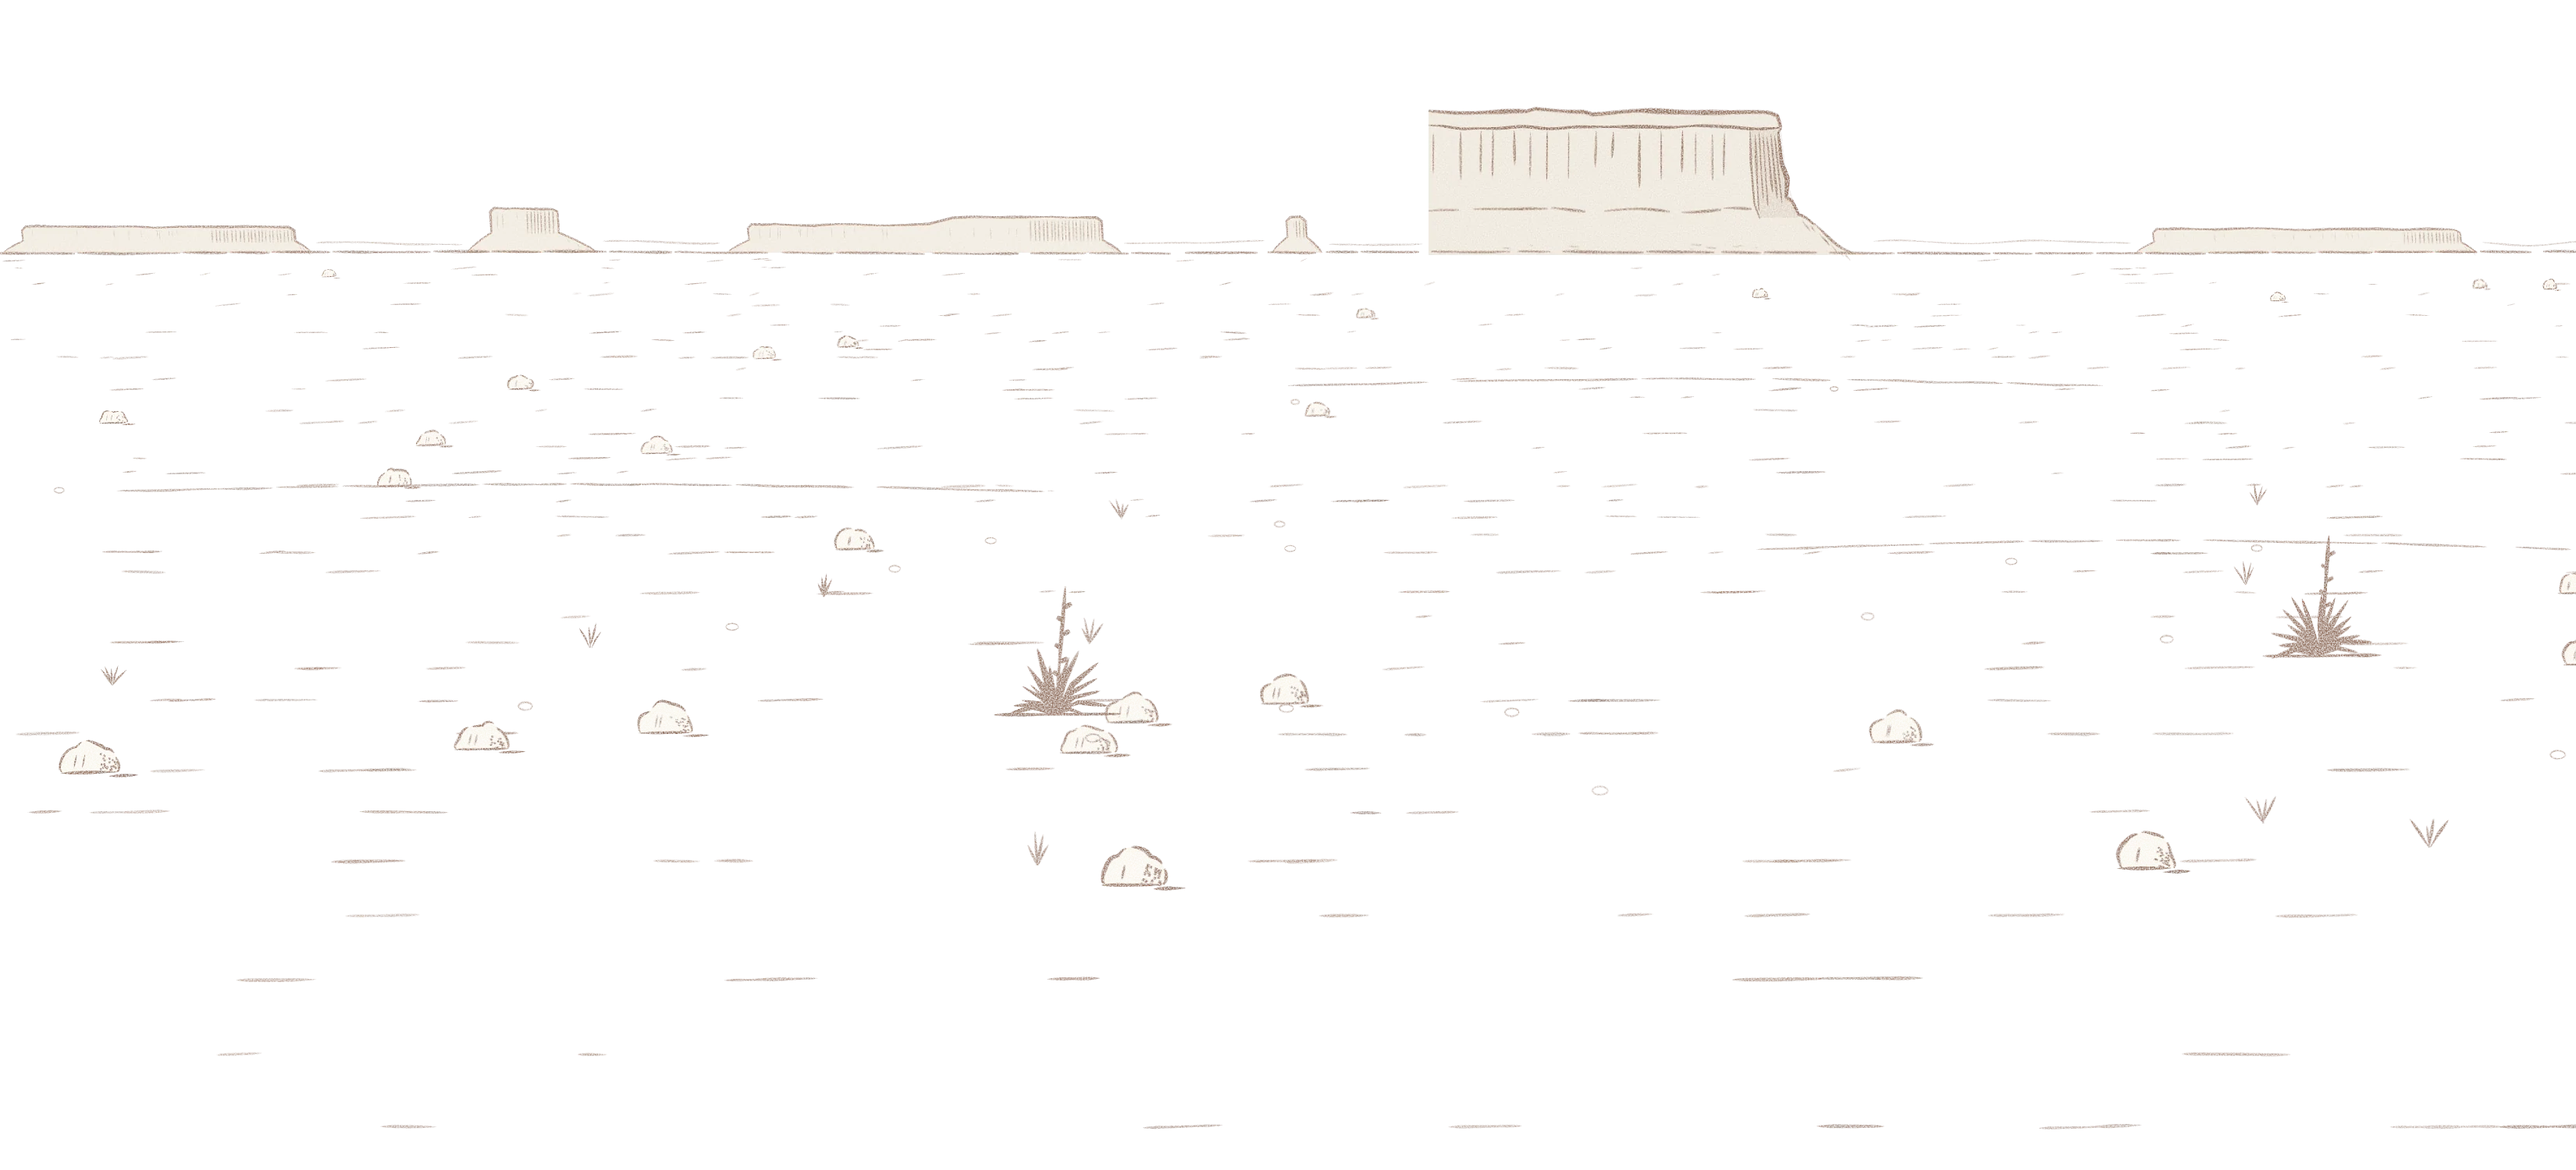
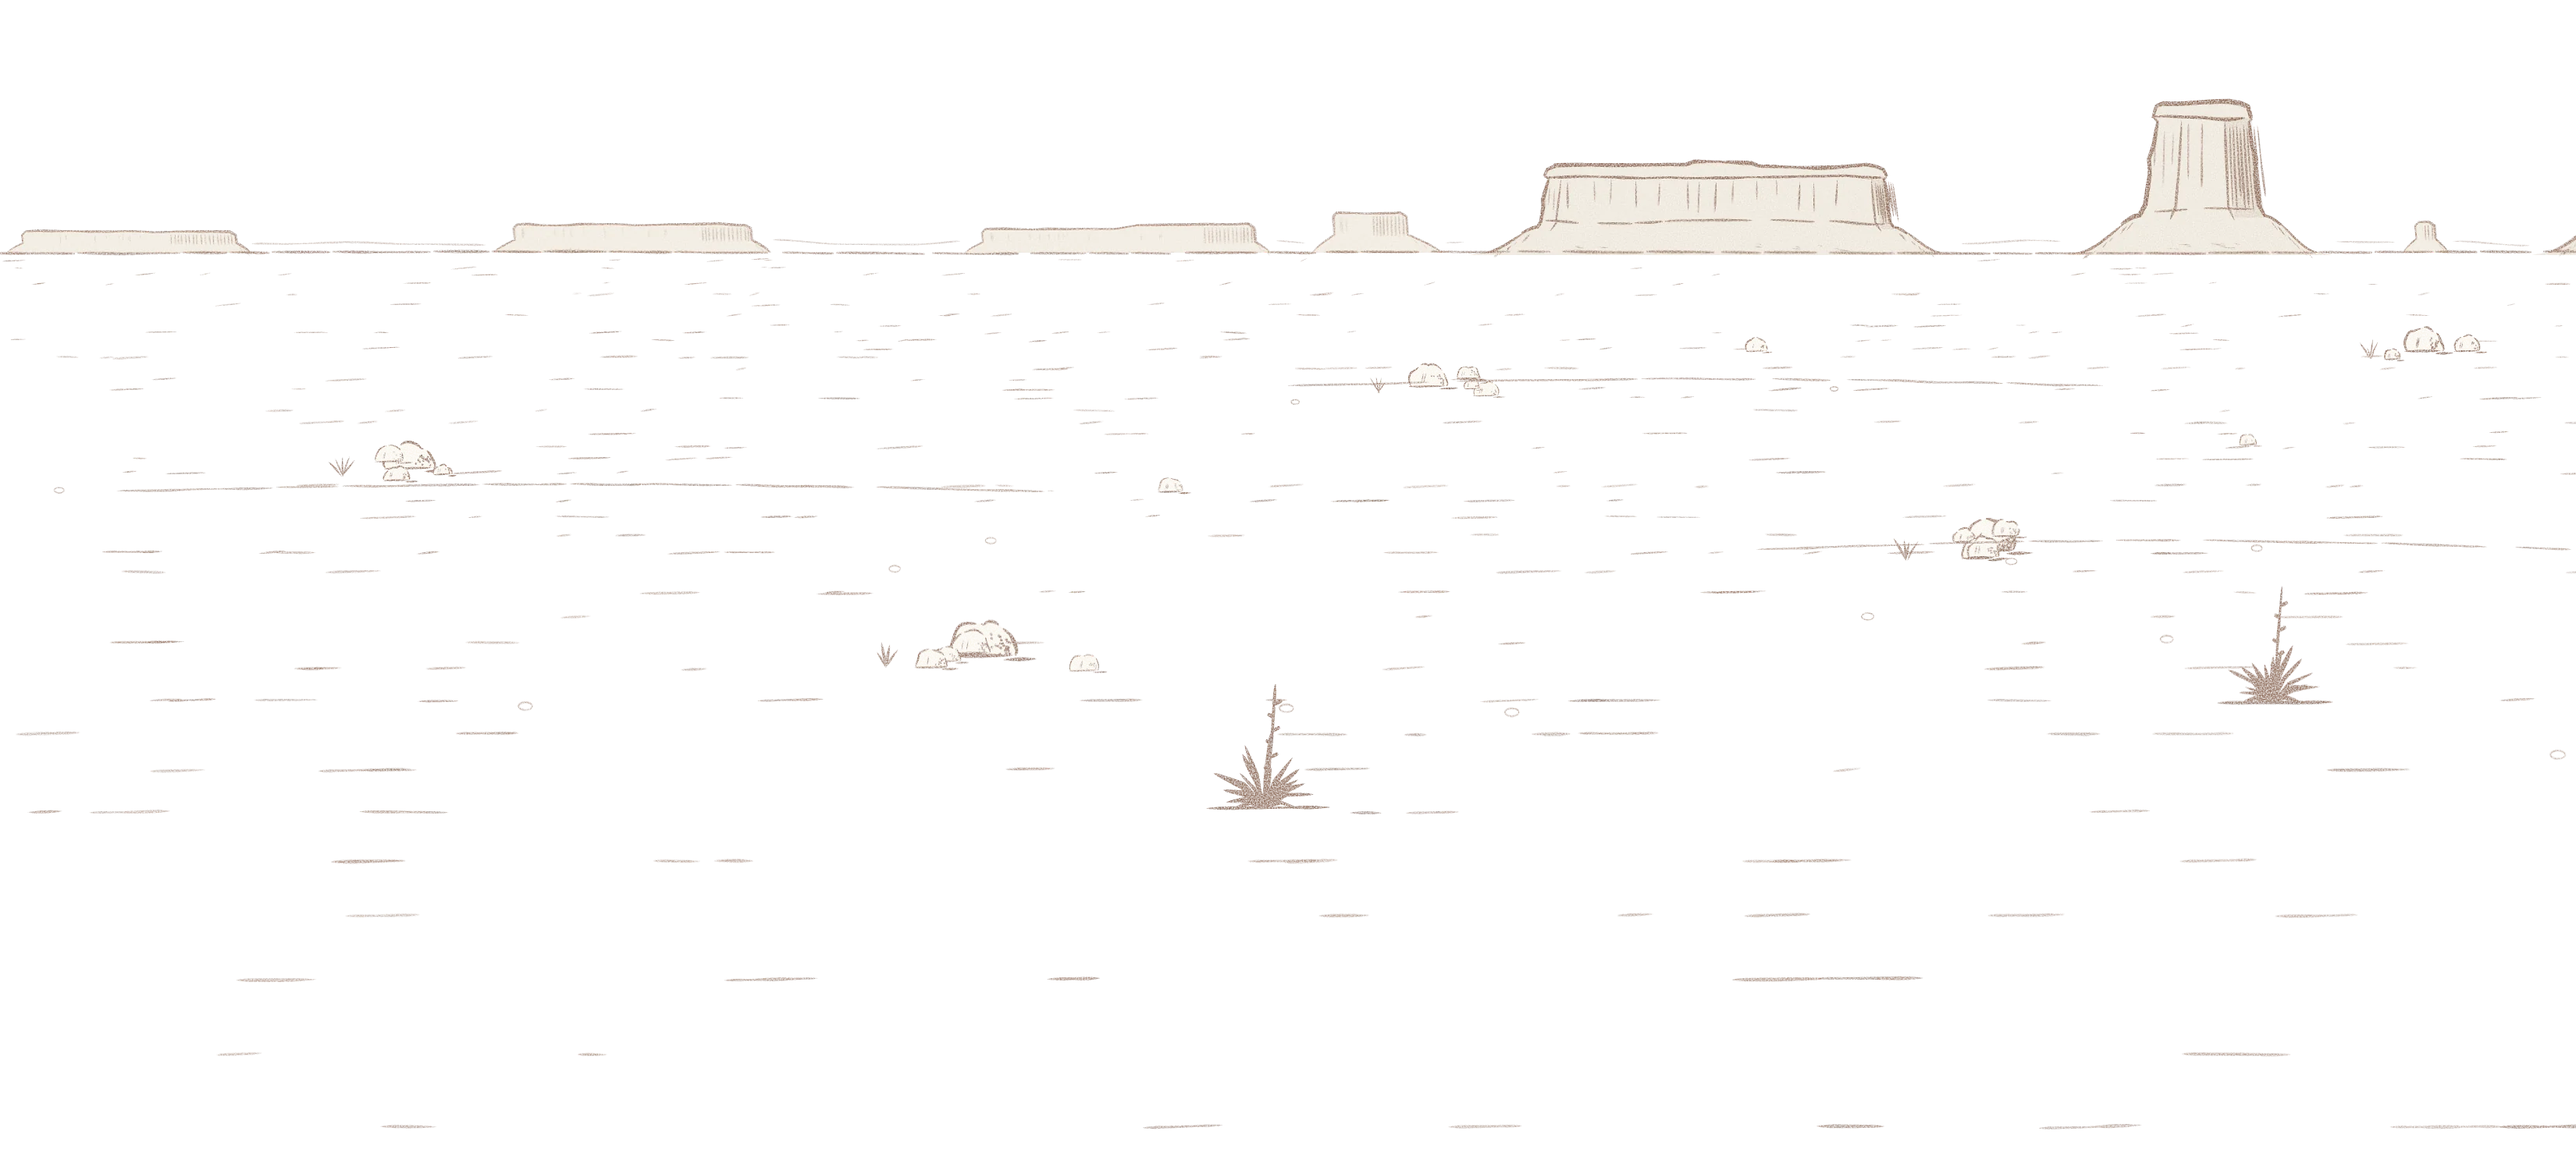
Paper landing: wide screens composed on purpose
The big mesa gets its left end; a butte and a long low mesa to the left and a long mesa to the right;
ground detail in groups rather than scattered; clouds sized to the screen on desktop and iPad.

Claude-Session: https://claude.ai/code/session_01Wo51VTjsbzpiYb7KkgG49Z

diff --git a/index.html b/index.html
@@ -92,14 +92,16 @@ window.ART = {"land": {"box": [-2400, 0, 5000, 1000], "ref": "land"}, "bankL": {
     var u, uS, xo, groundY, nameY, nameW, linksTop;
     if (phone) {
       // the phone design is 900 × 1950: a wider portrait screen (an iPad) keeps its proportions and gets more desert at the sides
-      u = Math.min(W / 900, Hs / 1950); uS = u; xo = (W - 900 * u) / 2;
+      u = Math.min(W / 900, Hs / 1950); uS = Math.min(W / 900, u * 1.3); xo = (W - 900 * u) / 2;
       groundY = Hs - Math.max(46, safeB + 54);
       nameY = Hs * 0.35; nameW = Math.min(W * 0.76, 684 * u * 1.25); linksTop = safeT + 17;
     } else {
-      u = Math.min(Hs / 900, W / 1440) * 0.62; uS = u * 1.15;
+      u = Math.min(Hs / 900, W / 1440) * 0.62;
+      // the cloud banks are sized to the screen, so they still frame the name on a wide one
+      uS = Math.min(W * 0.27 / 463, Hs * 0.2 / 198);
       xo = W * 0.62 - FIGX * u;
       groundY = Hs - Math.max(40, Hs * 0.08);
-      nameY = Hs * 0.33; nameW = Math.max(340, Math.min(620, W * 0.36)); linksTop = safeT + 26;
+      nameY = Hs * 0.33; nameW = Math.max(340, Math.min(820, W * 0.34, Hs * 0.62)); linksTop = safeT + 26;
     }
     var landTop = groundY - GROUND * u;
     // land tiles: only the ones on screen load
@@ -112,7 +114,10 @@ window.ART = {"land": {"box": [-2400, 0, 5000, 1000], "ref": "land"}, "bankL": {
     });
     // sky: bankL from the top-left, bankR and the sun from the right edge and the name, the small cloud over the mesa
     var b = A.bankL.box; px($('bankL'), b[0] * uS, linksTop + (b[1] - LINKY) * uS, b[2] * uS, b[3] * uS);
-    ['bankR', 'sun'].forEach(function (k) { var b = A[k].box; px($(k), W - (900 - b[0]) * uS, nameY + (b[1] - NAMEY) * uS, b[2] * uS, b[3] * uS); });
+    // bankR and the sun: off the right edge, below the line; on a wide screen kept clear of the mesas
+    var rb = A.bankR.box, dyR = 0, horizonY = landTop + 216 * u;
+    if (!phone) dyR = Math.min(0, (horizonY - 70 * u / 0.62) - (nameY + (rb[1] + rb[3] - NAMEY) * uS));
+    ['bankR', 'sun'].forEach(function (k) { var b = A[k].box; px($(k), W - (900 - b[0]) * uS, nameY + (b[1] - NAMEY) * uS + dyR, b[2] * uS, b[3] * uS); });
     b = A.small.box; px($('small'), xo + b[0] * u, landTop + b[1] * u, b[2] * u, b[3] * u);
     // the figure: drawn in the old print's sheet units, shown at 0.9 about its ground point
     var f = $('fig'), k = 0.9 * u;
@@ -126,6 +131,7 @@ window.ART = {"land": {"box": [-2400, 0, 5000, 1000], "ref": "land"}, "bankL": {
     px(nm, (W - nameW) / 2, nameY - nh / 2, nameW, nh);
     nm.setAttribute('viewBox', sigBox.x + ' ' + sigBox.y + ' ' + sigBox.width + ' ' + sigBox.height);
     document.getElementById('signature').setAttribute('stroke-width', (phone ? 1.9 : 2.2) / sc);
+    if (!phone) { var fs = Math.max(15.5, Math.min(22, nameW * 0.033)); $('line').style.fontSize = fs + 'px'; Array.prototype.forEach.call(document.querySelectorAll('#links a'), function (a) { a.style.fontSize = Math.max(16, Math.min(19, fs * 1.02)) + 'px'; }); }
     $('line').style.top = (nameY + nh / 2 + (phone ? 10 : 14)) + 'px';
     $('links').style.top = linksTop + 'px';
     window.LAYOUT = { W: W, Hs: Hs, Hl: Hl, u: u, uS: uS, xo: xo, landTop: landTop, groundY: groundY, nameY: nameY, phone: phone };
